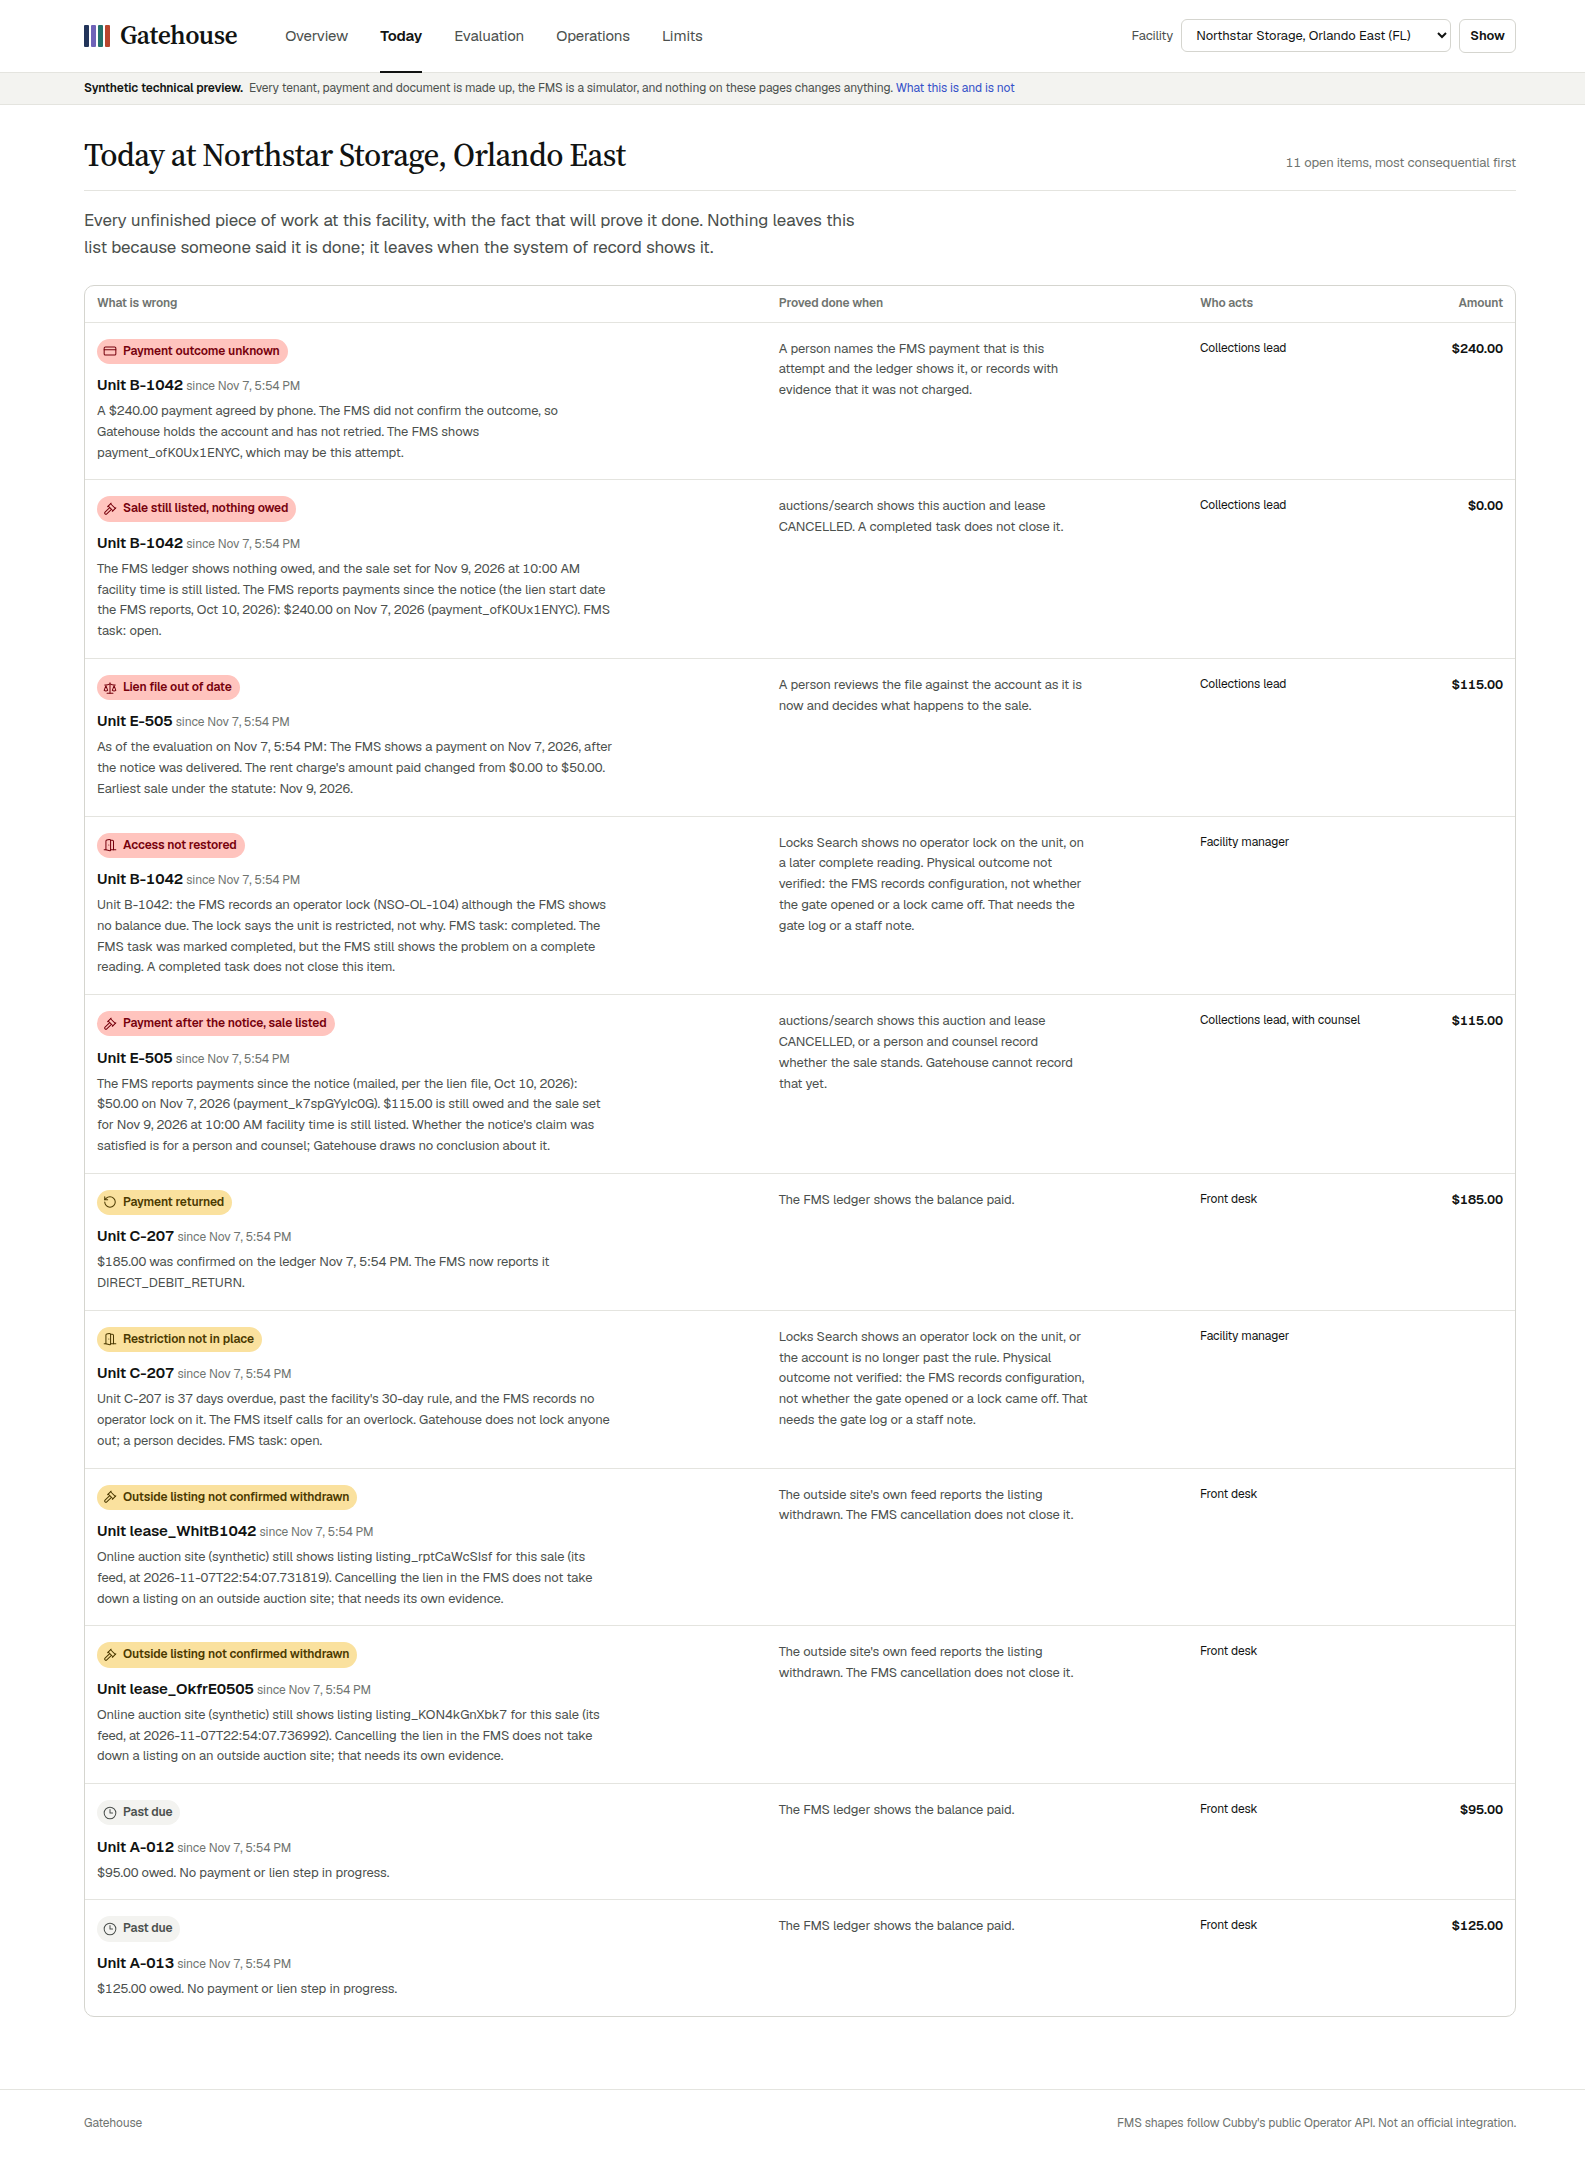
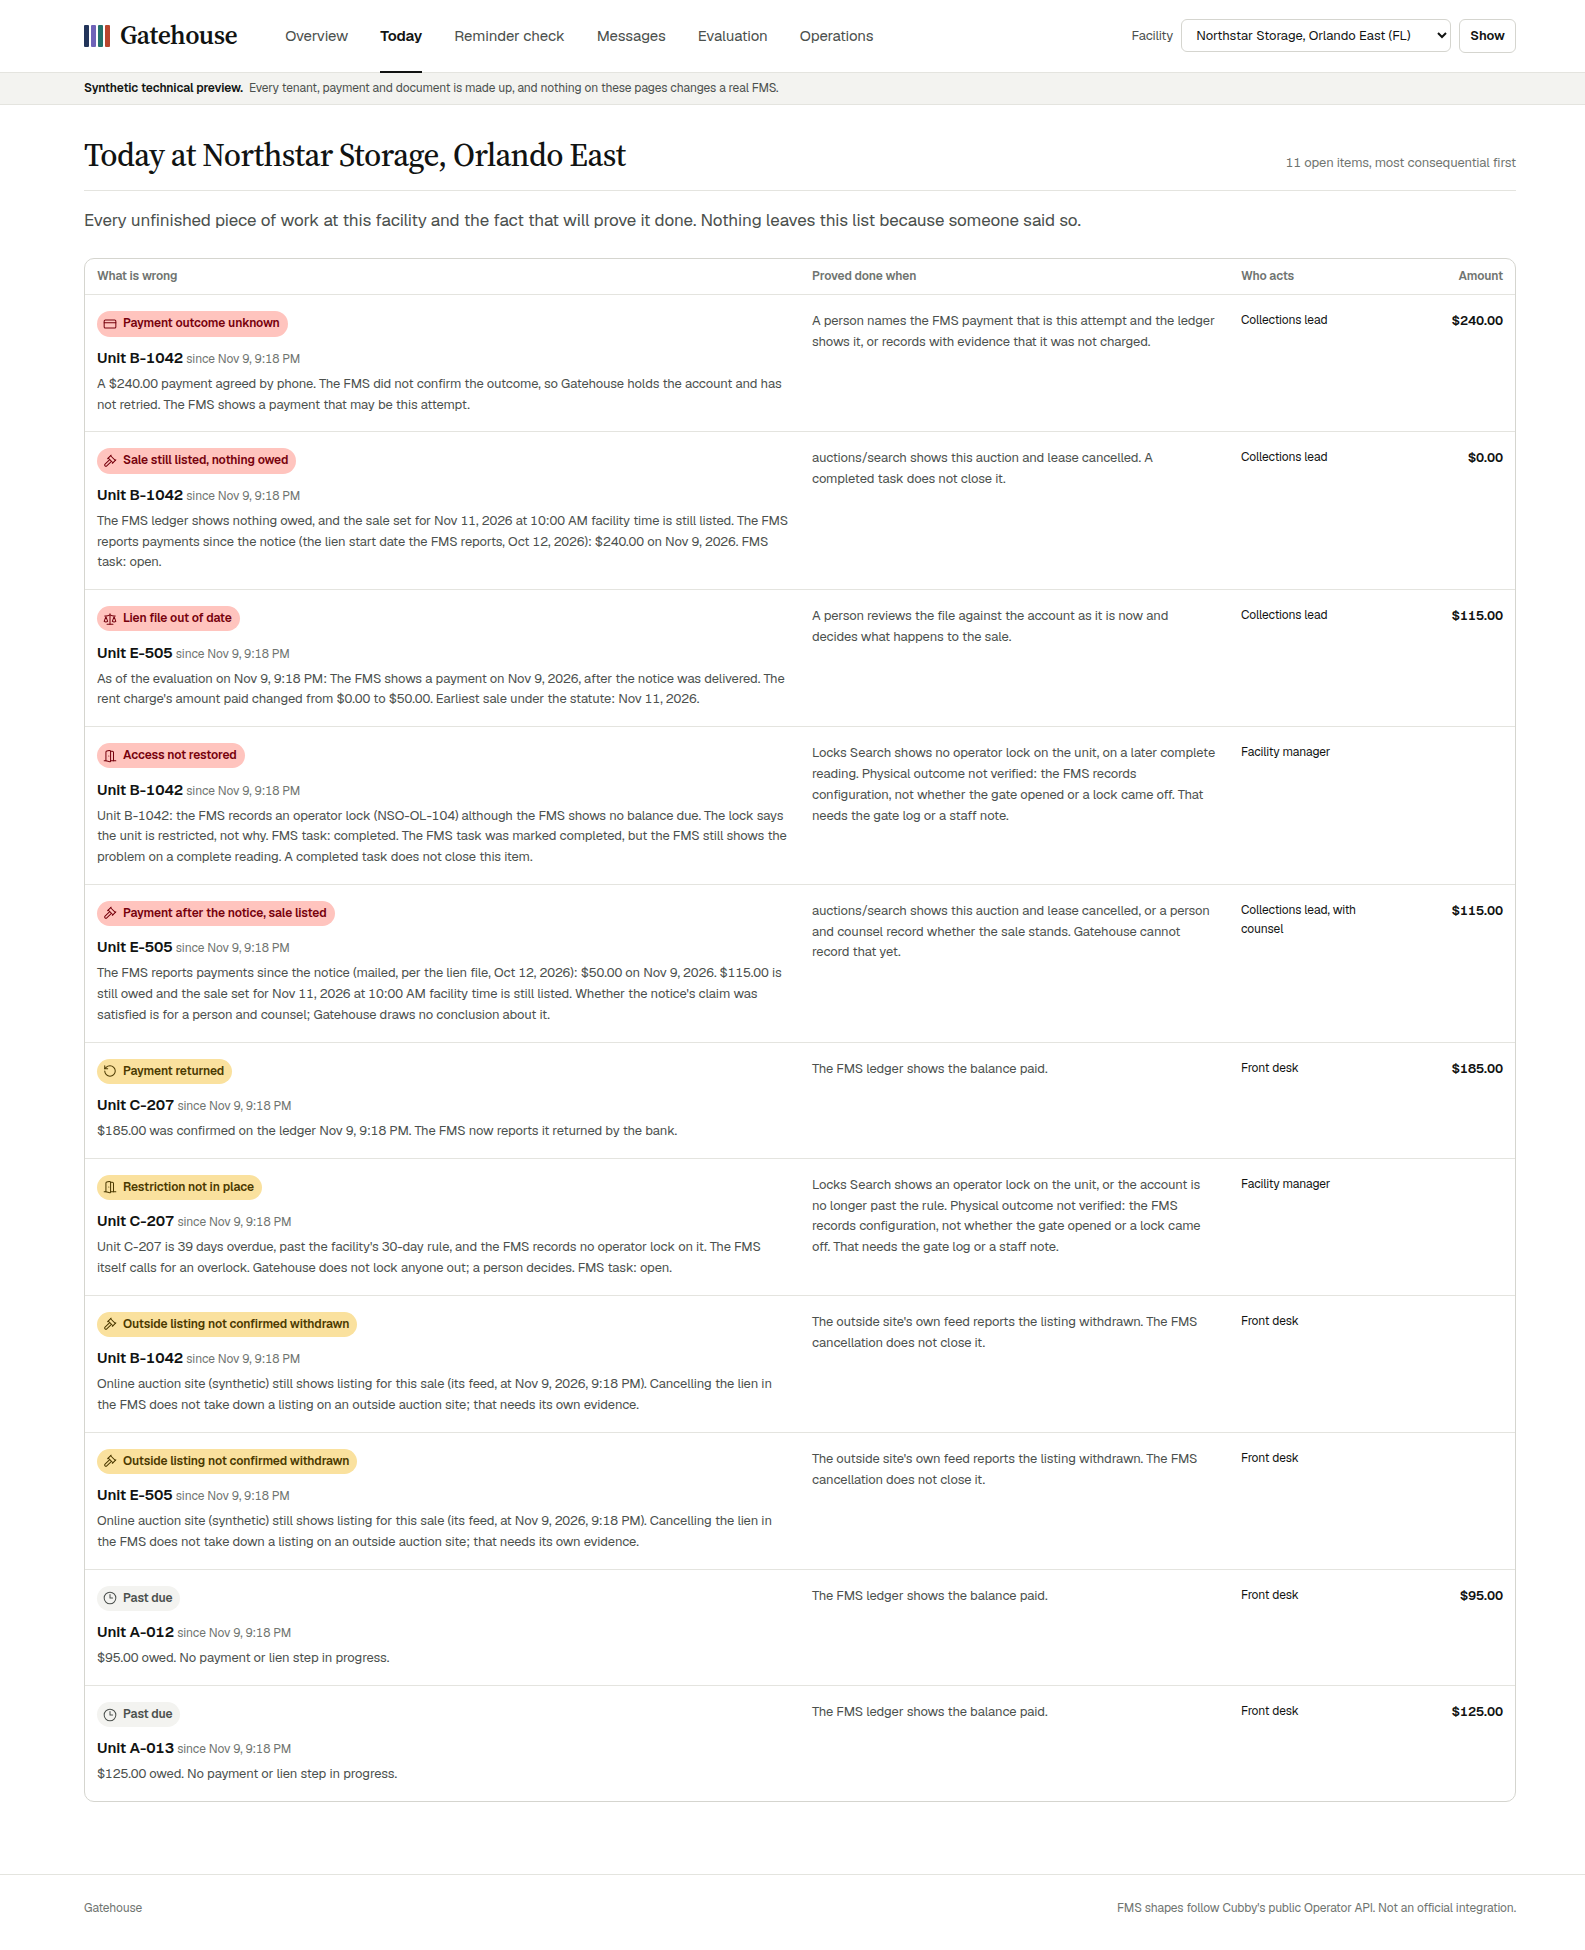
Refresh the README screenshots and describe the film
The screenshots were from before the Messages tab and the Reminder check. They are retaken from the preview, and Messages and Reminder check are added. The README now says the overview plays the film with sound.

diff --git a/README.md b/README.md
@@ -8,7 +8,7 @@ Gatehouse finds that work, keeps the evidence, and closes an item only when the 
 
 [![A tenant says she paid and her unit is still going to auction; Gatehouse reads the case and the desk writes the reply from the records](desk/static/film/gatehouse-walkthrough.jpg)](desk/static/film/gatehouse-walkthrough.mp4)
 
-A walkthrough of every screen in use, recorded on the live preview with one live run of our agent. The overview plays it with sound (click the frame for the video here). The music is "Closer" from Mixkit, used under Mixkit's free music licence.
+A three-minute walkthrough of the screens, recorded on the live preview with one live run of our agent. The overview plays it with sound. Click the frame to open the video here. The music is "Closer" from Mixkit, used under Mixkit's free music licence.
 
 ## Where it fits
 
@@ -42,6 +42,7 @@ Sources:
 | ![The overview, opening on the film](docs/screens/overview.png) **Overview.** What Gatehouse is, with the film and each built part. | ![Today's worklist](docs/screens/today.png) **Today.** Every open item at a facility, worst first, with what proves it done. |
 | ![A held payment](docs/screens/payment.png) **A held payment.** What the tenant agreed to, what was sent and heard back, and what the FMS shows now. | ![The account record](docs/screens/record.png) **The record.** Four lanes: what the FMS said, what Gatehouse observed and concluded, and what a person decided. |
 | ![A Florida lien file](docs/screens/lien.png) **A lien file.** Every requirement with its basis and evidence, and what changed since the last evaluation. | ![An access item](docs/screens/access.png) **An access item.** The recorded rule, the FMS task, and what the FMS shows unit by unit. |
+| ![Messages, with our agent's case notes](docs/screens/messages.png) **Messages.** A tenant's text, the steps it went through, and the case notes our agent wrote under them. | ![The reminder check](docs/screens/reminder-check.png) **Reminder check.** Which past-due tenants a collections text should not go to, and why. |
 
 ## What is built and what is next
 
